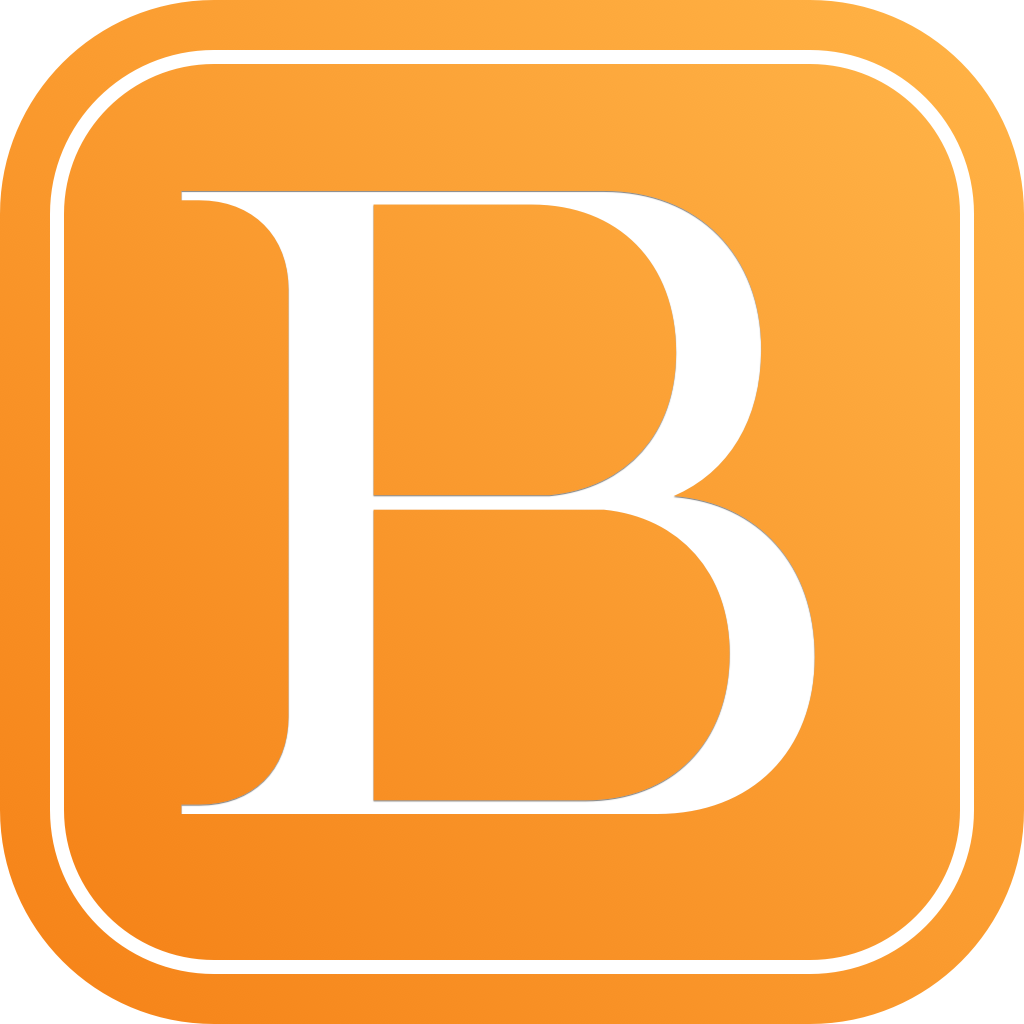
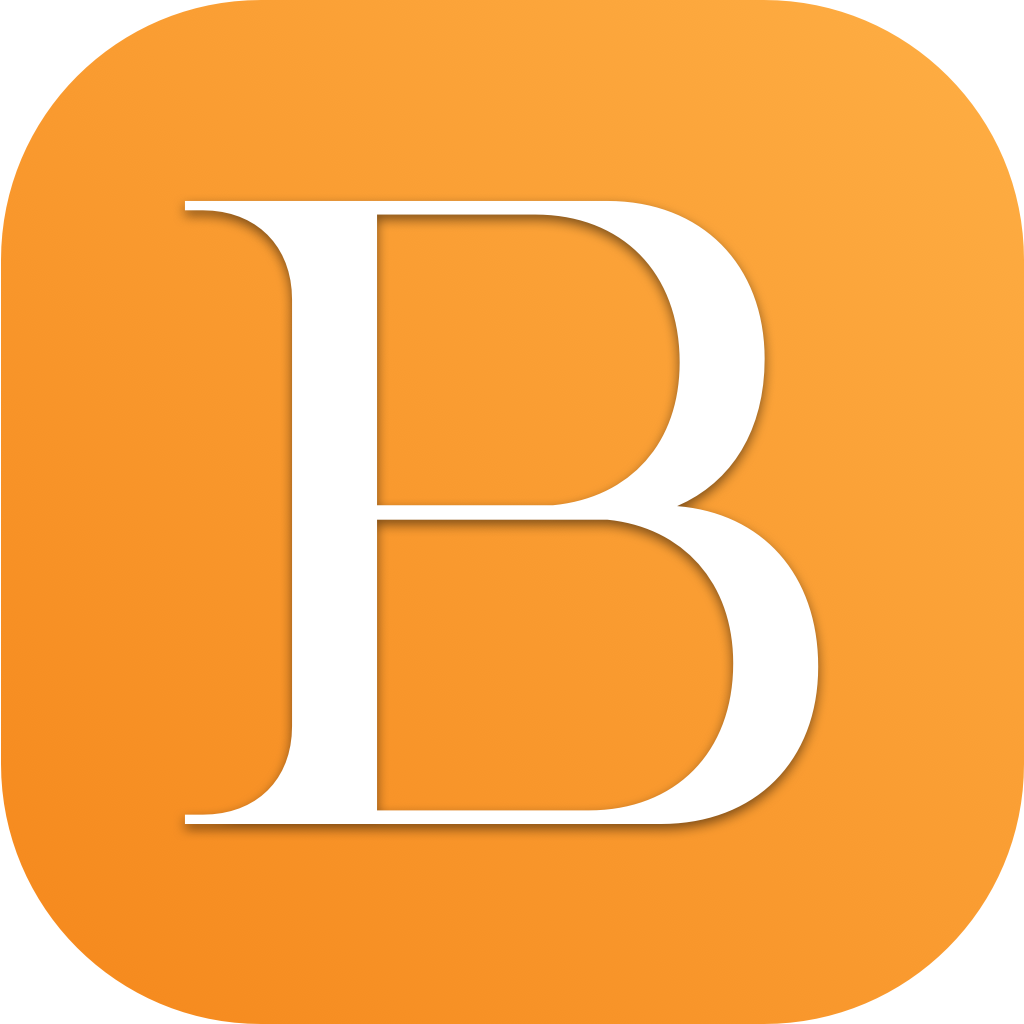
✨ Refreshing the website
What's New ?

1. Introducing a brand new logo that will now represent both the website and the app.

3 The Privacy Section has been updated in light of the discontinuation of our newsletter.

3 . The description of several features  has been edited to provide you with a clearer understanding.

diff --git a/public/index.html b/public/index.html
@@ -63,8 +63,7 @@
             <div class="w-full lg:w-1/2">
                 <div class="lg:max-w-lg">
                     <p class="text-3xl font-semibold text-gray-800 lg:text-3xl"style="font-family: 'Arimo', sans-serif;">Beaver Notes: Your Personal Note-Taking Haven for Privacy <br> and <span class="text-amber-500 ">Efficiency</span></p>
-                    <p class="text-base font-semibold text-gray-800 py-2 lg:text-xl"style="font-family: 'Arimo', sans-serif;"> Unleash the Power of Simplicity, Privacy, and Open-Source Innovation!</p>
-                    <p class="mt-3 text-gray-600 text-gray-800"style="font-family: 'Arimo', sans-serif;">Are you tired of cluttered note-taking apps that compromise your privacy? Look no further! Beaver Notes is here to revolutionize your note-taking experience. Effortlessly capture and organize your thoughts on your Mac, PC, or Linux system, all while enjoying the peace of mind that comes with open-source security. Take charge of your note-taking journey and elevate your productivity to new heights! 🚀</p>
+                    <p class="text-lg font-semibold text-gray-800 py-2 lg:text-xl"style="font-family: 'Arimo', sans-serif;">Unleash the Power of Simplicity, Privacy, and Open-Source Innovation!</p>
                     <p class="mt-3 text-gray-600 text-gray-800"style="font-family: 'Arimo', sans-serif"><b>🎉 Download Now and Transform Your Note-Taking! 🎉</b></p>
                     <button  onclick="window.location.href='../download.html'" class="w-full h-[45px] px-5 py-2 mt-6 text-sm tracking-wider text-white uppercase transition-colors duration-300 transform bg-amber-500 lg:w-auto hover:bg-amber-400 focus:outline-none focus:bg-amber-400 rounded-xl"style="font-family: 'Arimo', sans-serif;">Download Now</button>
                     <button  onclick="window.location.href='../stay-in-the-loop.html'" class="w-full h-[45px] px-5 py-2 mt-6 text-sm tracking-wider text-amber-500 uppercase transition-colors duration-300 transform lg:w-auto focus:outline-none"style="font-family: 'Arimo', sans-serif;">Stay in the Loop →</button>
@@ -89,7 +88,7 @@
                 <dt class="inline font-semibold text-gray-900">
                   🔒 Privacy First:
                 </dt>
-                <dd class="inline"style="font-family: 'Arimo', sans-serif;"> Beaver Notes ensures your data stays private and secure. Your notes are stored locally on your device, eliminating any concerns about data breaches or unauthorized access. Enjoy peace of mind while capturing your thoughts.
+                <dd class="inline"style="font-family: 'Arimo', sans-serif;"> Beaver Notes has been built on the principle of privacy. This means that your ideas, projects, and thoughts are exclusively saved on your personal computer, giving you, the user, full control over <b> your data</b>.
                 </dd>
               </div>
               <div class="relative pl-9">
@@ -166,7 +165,7 @@
     <!-- Card 3 -->
     <div class="p-4 border rounded-xl flex flex-col items-center">
       <p class="text-3xl font-bold mb-4 text-gray-800 text-left">Search and Navigate Effortlessly</p>
-      <p class="text-gray-700 text-left">Stay organized and never lose track of your notes with the Headings Tree feature. Explore a comprehensive list of note headings and effortlessly navigate to the information you need. Keep your ideas structured and easily accessible.</p>
+      <p class="text-gray-700 text-left">Stay organized and never lose track of your notes with the Headings Tree feature. Effortlessly navigate to the information you need. Keep your ideas structured and easily accessible.</p>
     </div>
 
     <!-- Card 4 -->

diff --git a/public/privacy.html b/public/privacy.html
@@ -58,13 +58,12 @@
 	<div class="px-4 py-16 mx-auto max-w-7xl sm:px-6 lg:px-8">
 		<div class="max-w-3xl mx-auto text-justify">
             <p class="text-3xl font-bold text-gray-800" style="font-family: 'Arimo', sans-serif;">Privacy Policy</p>
-        <p class="text-base text-gray-800 py-4">Effective Date: July 28 2023</p>
+        <p class="text-base text-gray-800 py-4">Effective Date: August 26 2023</p>
         <p class="text-base text-gray-800 py-4">At Beaver Notes, we take your privacy seriously and are committed to protecting your personal information. This Privacy Policy outlines how we collect, use, and safeguard your data when you interact with the Beaver Notes application and website.
             <p class="text-xl font-bold text-gray-800" style="font-family: 'Arimo', sans-serif;">Information We Collect</p>
             <p class="text-base text-gray-800 py-4"><b>App Data:</b> Beaver Notes is designed with your privacy in mind, and we do not collect any personal information from you within the app. All data, media, and notes you create within the app are stored locally on your device only. We do not perform any data sync or store your information on our servers.<p>
             <p class="text-base text-gray-800 py-4"><b>Website Analytics:</b> We use Umami analytics on our website to better understand user interactions and improve our services. Umami collects anonymized data, such as page views and visit durations, to help us analyze user behavior. This data is not linked to any specific individual and is used solely for analytical purposes.
         </p>
-        <p class="text-base text-gray-800 py-4"><b>Website Analytics:</b>If you choose to sign up for our newsletter, we collect your email address through Mailchimp, a trusted third-party email marketing service. We will only use your email address to send you updates about Beaver Notes and relevant news. You can opt-out of the newsletter at any time.</p>
         <p class="text-xl font-bold text-gray-800" style="font-family: 'Arimo', sans-serif;">Children's Privacy</p>    
         <p class="text-base text-gray-800 py-4">Beaver Notes is not intended for use by children under the age of 13. We do not knowingly collect personal information from children. If you are a parent or guardian and believe that your child has provided us with personal information, please contact us, and we will promptly delete such information.</p>
         <p class="text-xl font-bold text-gray-800" style="font-family: 'Arimo', sans-serif;">Data Security
@@ -73,7 +72,7 @@
         </p>
         <p class="text-xl font-bold text-gray-800" style="font-family: 'Arimo', sans-serif;">Your Choices
         </p>    
-        <p class="text-base text-gray-800 py-4">As Beaver Notes does not collect any personal information or transmit data externally, you have full control over your data. You can manage, export, or delete your notes and media directly within the app. If you have provided us with personal information through our website or newsletter signup, you can request to have it removed from our records. Additionally, if you signed up for the newsletter, you can easily opt-out and have your data deleted.
+        <p class="text-base text-gray-800 py-4">As Beaver Notes does not collect any personal information or transmit data externally, you have full control over your data. You can manage, export, or delete your notes and media directly within the app.
         </p>
         <p class="text-xl font-bold text-gray-800" style="font-family: 'Arimo', sans-serif;">Changes to This Policy
         </p>    

diff --git a/public/Terms.html b/public/Terms.html
@@ -66,12 +66,12 @@
             <p class="text-base text-gray-800 py-4">By using Beaver Notes, you agree to comply with these Terms of Service and any other applicable laws and regulations. If you do not agree with these terms, please refrain from using our services.<p>
         <p class="text-xl font-bold text-gray-800" style="font-family: 'Arimo', sans-serif;">License to Use
                 </p>    
-        <p class="text-base text-gray-800 py-4">Beaver Notes is an open-source application licensed under the <a class="text-base text-amber-500" href="https://github.com/Daniele-rolli/Beaver-Notes/blob/main/LICENSE.txt">MIT License</a>. You are granted a non-exclusive, non-transferable, revocable license to use the application and website for personal or non-commercial use only. You may modify, distribute, and use Beaver Notes in accordance with the MIT License.
+        <p class="text-base text-gray-800 py-4">Beaver Notes is an open-source application licensed under the <a class="text-base text-amber-500 hover:text-amber-500" href="https://github.com/Daniele-rolli/Beaver-Notes/blob/main/LICENSE">MIT License</a>. You are granted a non-exclusive, non-transferable, revocable license to use the application and website for personal or non-commercial use only. You may modify, distribute, and use Beaver Notes in accordance with the MIT License.
 
         </p>
         <p class="text-xl font-bold text-gray-800" style="font-family: 'Arimo', sans-serif;">Privacy Policy
         </p>    
-        <p class="text-base text-gray-800 py-4">Your privacy is important to us. Please review our Privacy Policy to understand how we handle user data and ensure its security.
+        <p class="text-base text-gray-800 py-4">Your privacy is important to us. Please review our <a class="text-base text-amber-500 hover:text-amber-500" href="/privacy.html">Privacy Policy</a> to understand how we handle user data and ensure its security.
         </p>
         <p class="text-xl font-bold text-gray-800" style="font-family: 'Arimo', sans-serif;">Intellectual Property
         </p>    
